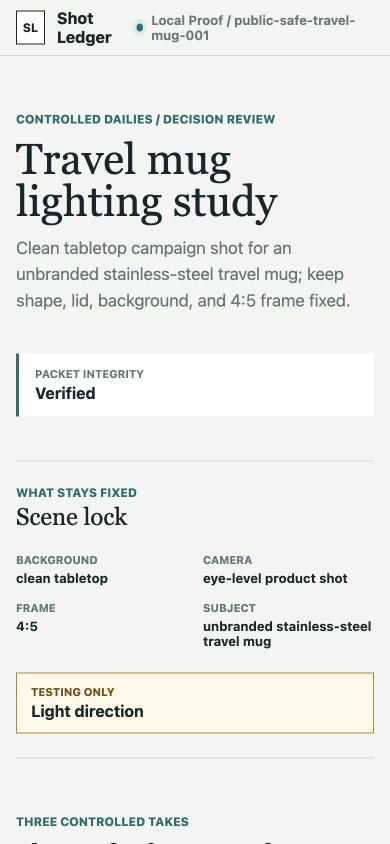
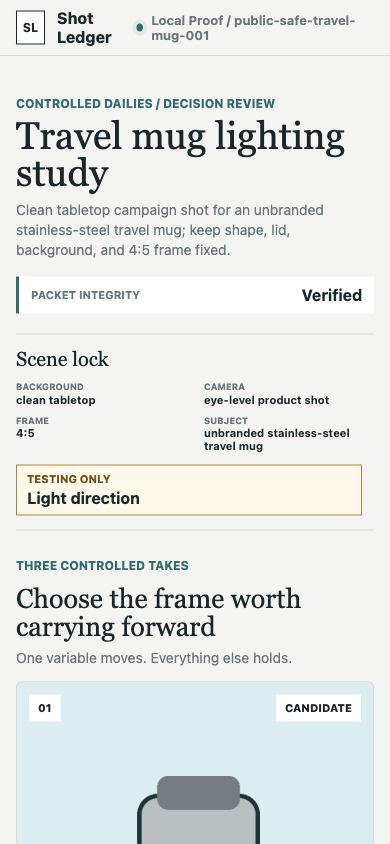
Bring controlled take into mobile first view

diff --git a/src/shot_ledger/web/styles.css b/src/shot_ledger/web/styles.css
@@ -524,7 +524,8 @@ textarea:focus-visible {
   }
 
   h1 {
-    font-size: 43px;
+    margin-bottom: 8px;
+    font-size: 38px;
   }
 
   .scene-heading-row,
@@ -534,11 +535,85 @@ textarea:focus-visible {
     flex-direction: column;
   }
 
-  .integrity {
-    min-width: 0;
+  .scene-header {
+    padding: 12px 0 20px;
   }
 
-  .locked-variables,
+  .scene-header > .eyebrow {
+    margin-bottom: 7px;
+  }
+
+  .scene-heading-row {
+    gap: 16px;
+  }
+
+  .brief {
+    font-size: 14px;
+    line-height: 1.45;
+  }
+
+  .integrity {
+    display: flex;
+    min-width: 0;
+    align-items: center;
+    justify-content: space-between;
+    padding: 9px 12px;
+  }
+
+  .integrity-label {
+    margin-bottom: 0;
+  }
+
+  .control-band {
+    grid-template-columns: 1fr auto;
+    gap: 12px;
+    padding: 14px 0;
+  }
+
+  .control-band-title .eyebrow {
+    display: none;
+  }
+
+  .control-band h2 {
+    font-size: 20px;
+  }
+
+  .changed-variable {
+    padding: 7px 10px;
+  }
+
+  .locked-variables {
+    grid-column: 1 / -1;
+    grid-template-columns: repeat(2, minmax(0, 1fr));
+    gap: 9px 18px;
+  }
+
+  .locked-variables dt {
+    margin-bottom: 1px;
+    font-size: 9px;
+  }
+
+  .locked-variables dd {
+    font-size: 11px;
+  }
+
+  .takes-section {
+    padding: 28px 0 44px;
+  }
+
+  .section-heading {
+    gap: 8px;
+    margin-bottom: 16px;
+  }
+
+  .section-heading h2 {
+    font-size: 27px;
+  }
+
+  .section-heading > p {
+    font-size: 14px;
+  }
+
   .packet-facts {
     grid-template-columns: repeat(2, minmax(0, 1fr));
   }